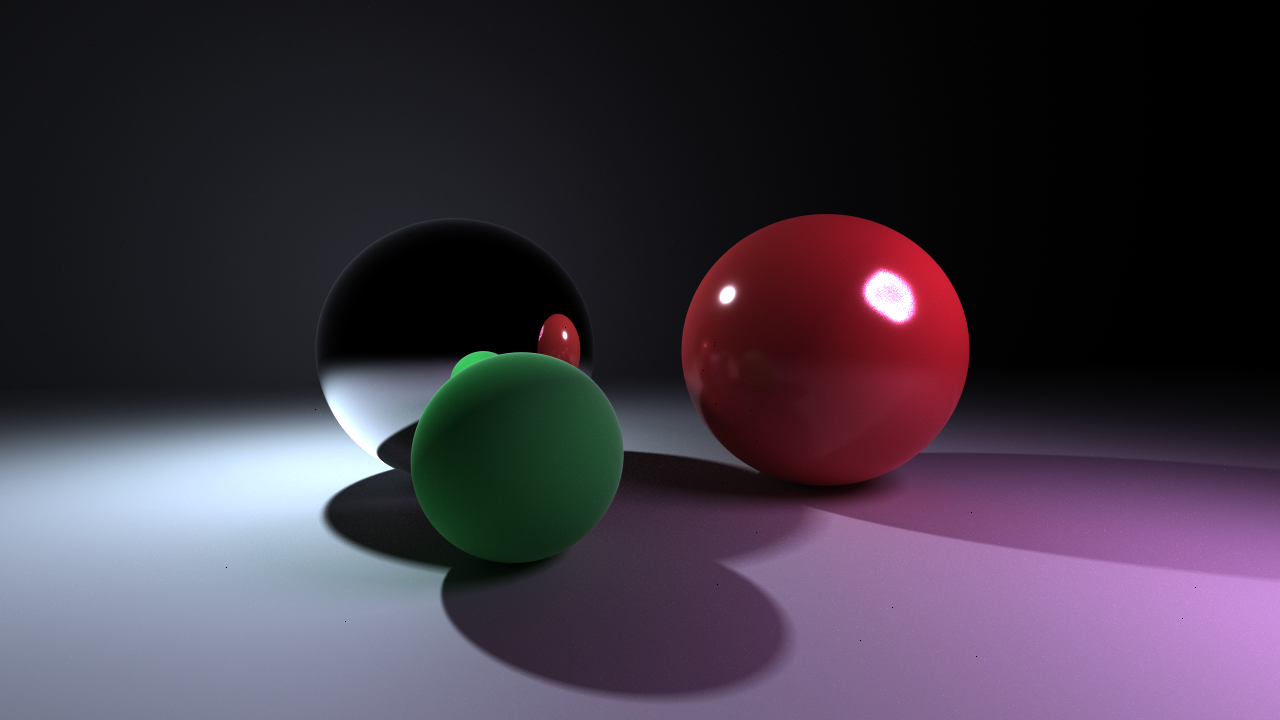
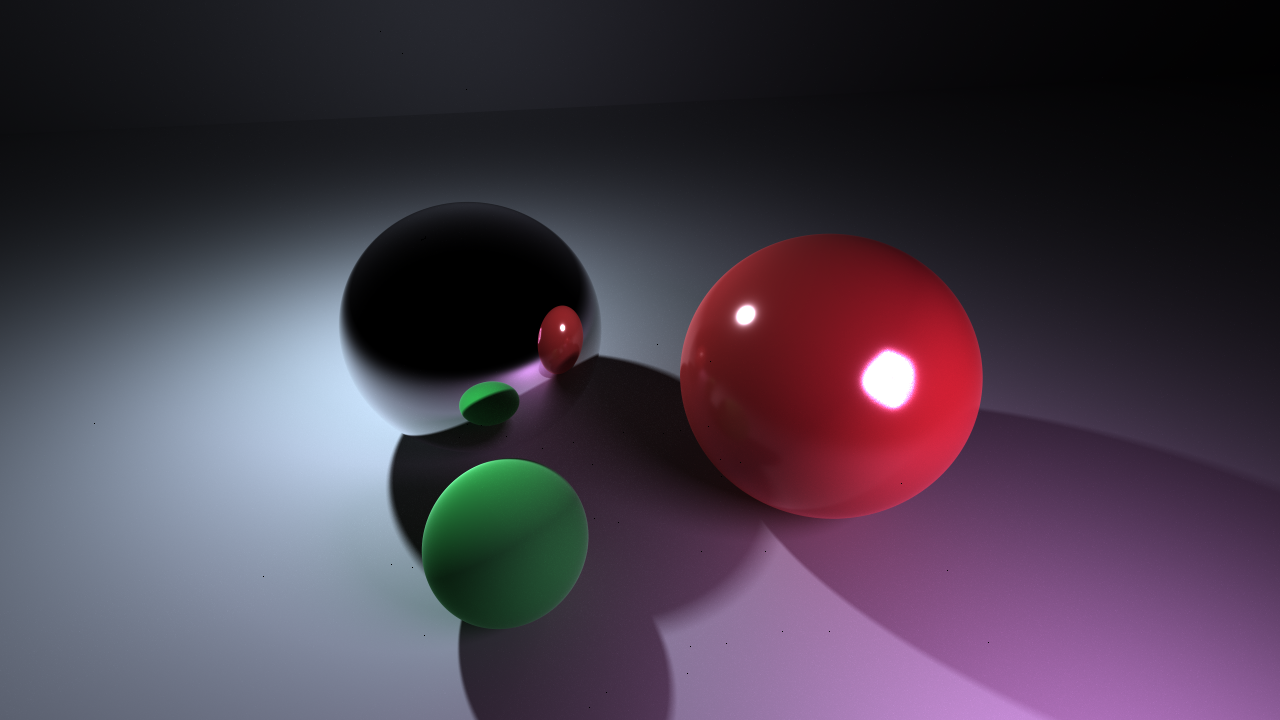
Improve fresnel energy conservation

diff --git a/src/tracey/graphics/shaders/shaders.cpp b/src/tracey/graphics/shaders/shaders.cpp
@@ -130,8 +130,10 @@ TRC_DEFINE_SHADER(ShaderCombined) {
 
     glm::vec3 albedo = SAMPLE_ATTRIB(albedo);
     float metallic = SAMPLE_ATTRIB(metallic);
-    glm::vec3 diffuse_color {albedo * (1.f - metallic)};
-    glm::vec3 specular_color {math::fresnel(1.f, 2.0f, -shader_data.ray.direction, shader_data.normal) + albedo * metallic};
+    float fresnel = math::fresnel(1.f, 2.0f, -shader_data.ray.direction, shader_data.normal);
+
+    glm::vec3 diffuse_color {glm::saturate(albedo * (1.f - metallic))}; // saturate = clamp between 0 and 1
+    glm::vec3 specular_color {glm::saturate(fresnel + (albedo * metallic))};
 
     glm::vec3 diffuse = (diffuse_direct + diffuse_indirect) * diffuse_color;
     glm::vec3 specular = (specular_direct + specular_indirect) * specular_color;

diff --git a/src/tracey/engine/engine.cpp b/src/tracey/engine/engine.cpp
@@ -17,7 +17,7 @@ Engine::Engine(UserConfig cfg) : cfg(cfg), error(0), preview_mode(true) {}
 
 int Engine::run() {
     Material *mat_floor = scene.add_material(std::make_unique<Material>(glm::vec3 {0.9f, 0.9f, 0.9f}, 0.5f, 0.f));
-    Material *mat_a = scene.add_material(std::make_unique<Material>(glm::vec3 {1.f, 1.f, 1.f}, 0.f, 1.f));
+    Material *mat_a = scene.add_material(std::make_unique<Material>(glm::vec3 {1.0f, 0.5f, 0.0f}, 0.001f, 1.f));
     Material *mat_b = scene.add_material(std::make_unique<Material>(glm::vec3 {0.9f, 0.2f, 0.2f}, 0.03f, 0.f));
     Material *mat_c = scene.add_material(std::make_unique<Material>(glm::vec3 {0.2f, 0.9f, 0.3f}, 1.f, 0.f));
 

diff --git a/src/tracey/geometry/ray.hpp b/src/tracey/geometry/ray.hpp
@@ -4,7 +4,7 @@
 #include "../../lib/glm.hpp"
 
 #define TRC_RAY_CLIP_EPSILON 0.001f
-#define TRC_RAY_MAX_BOUNCES 3
+#define TRC_RAY_MAX_BOUNCES 5
 
 namespace trc {
 
